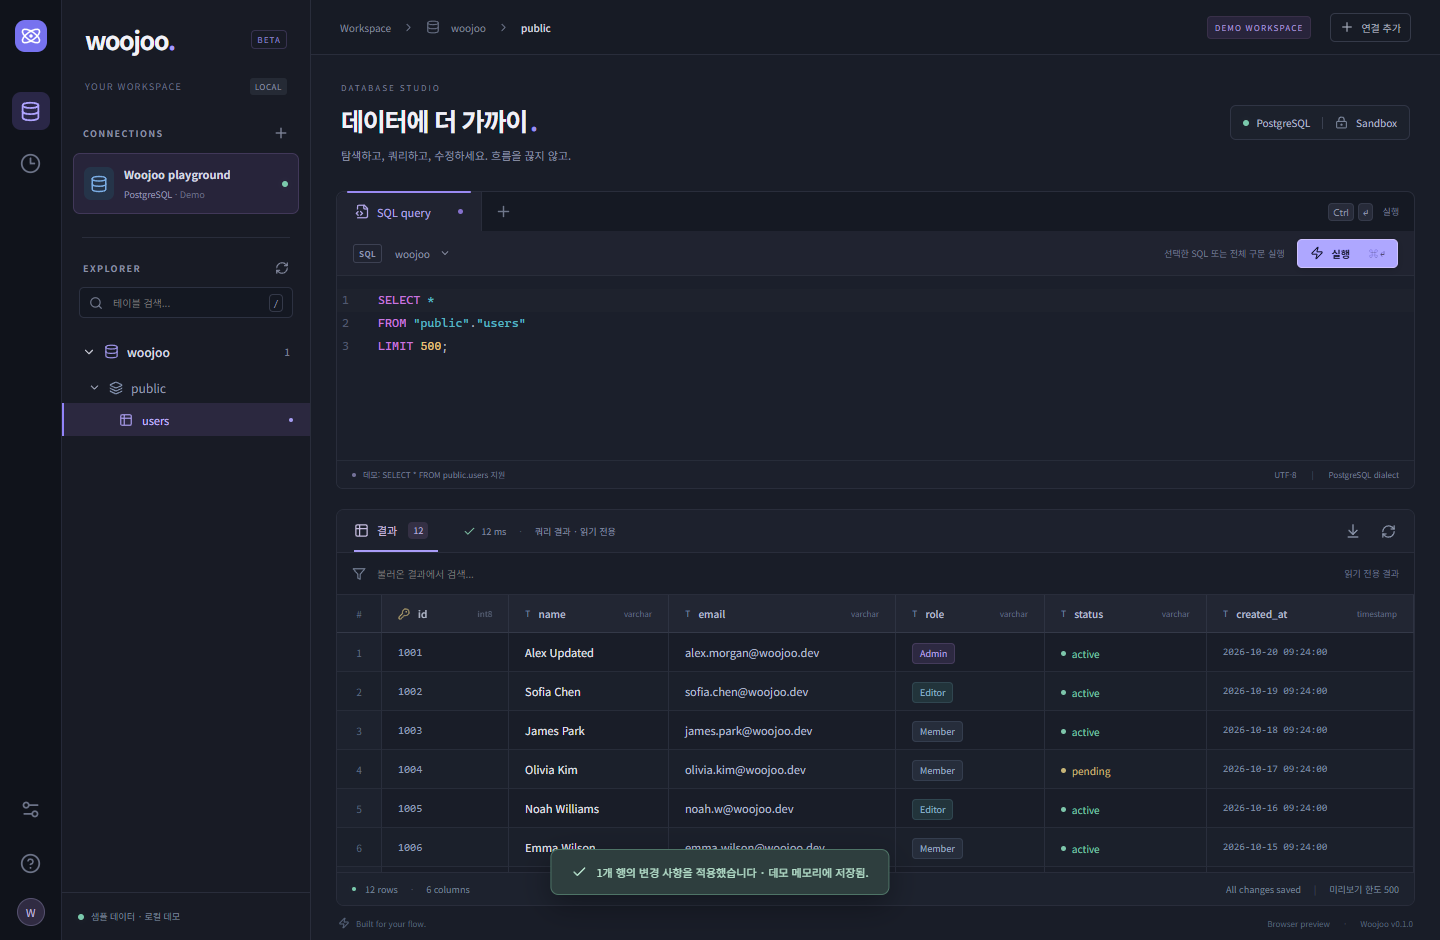
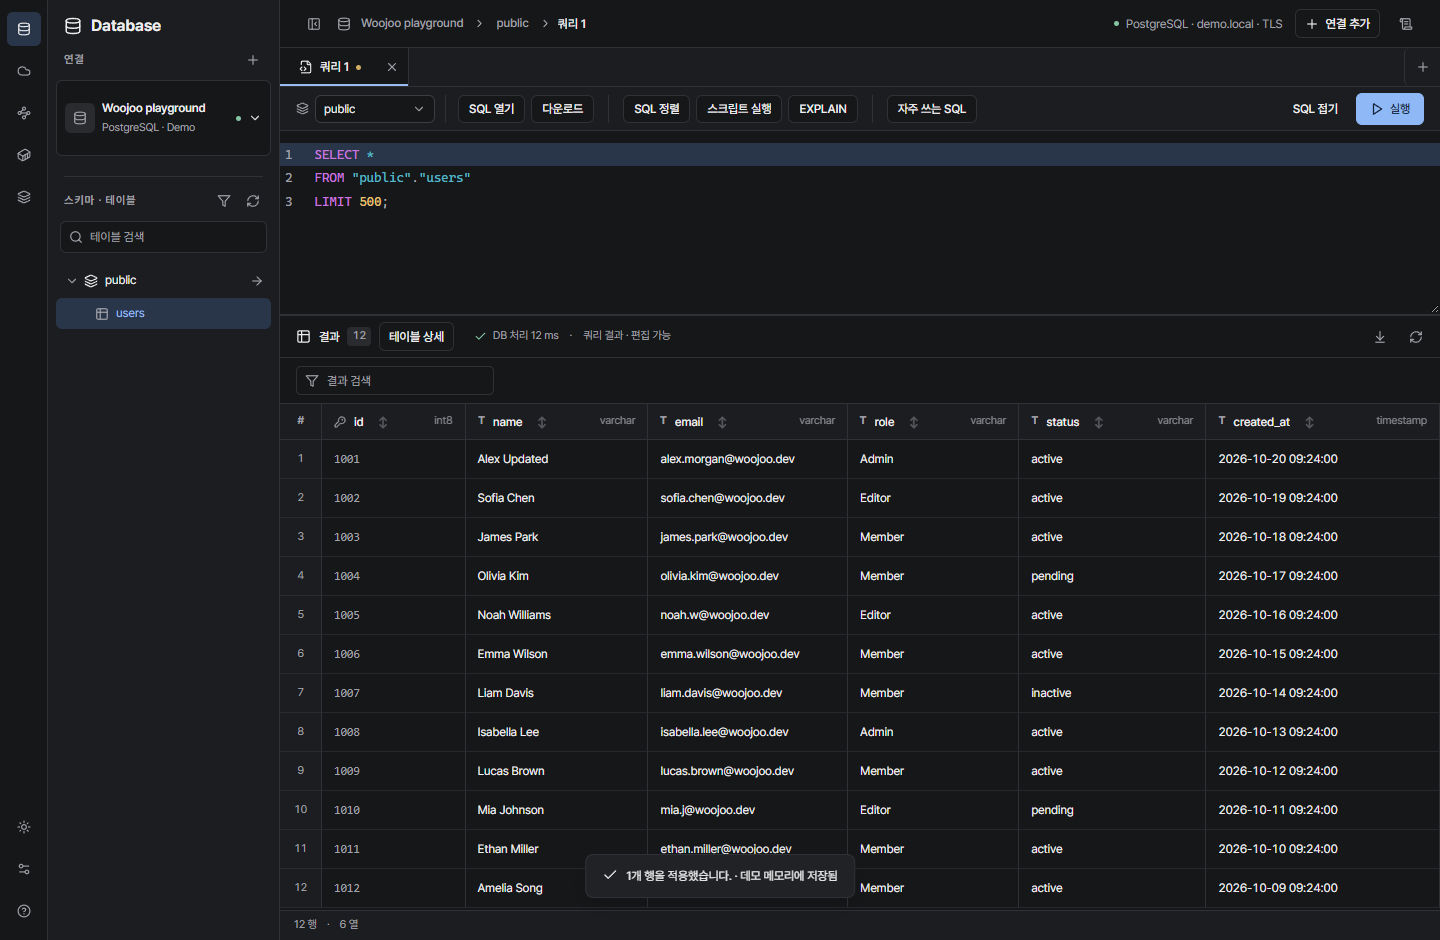
docs: preserve Redis verification evidence and refresh workspace preview

diff --git a/docs/superpowers/plans/2026-10-25-redis-verification.md b/docs/superpowers/plans/2026-10-25-redis-verification.md
@@ -1,0 +1,60 @@
+# Redis 구현 검증 결과
+
+2026-10-25. 승인한 독립 Redis 작업 공간 구현과 검증 결과를 기록한다.
+
+## 완료 범위
+
+- 앱 전환 메뉴의 독립 Redis 작업 공간과 지연 로딩.
+- 프로필·인증·검증 TLS·고정 DB 연결, Redis 전용 자격증명 namespace.
+- SCAN 탐색, 원본 바이너리 키 식별, 접두사 트리, 자료형 6종 값 조회 및 제한된 페이지.
+- 캐시 패턴/TTL 구간, List/Stream 큐 등록과 비소비 조회, 즐겨찾기와 보기 편집/삭제.
+- 한국어/영어, 다크/라이트, 작은 창의 목록/상세 전환, 명시적 데모 진입/종료.
+- 취소·연결 전환·늦은 응답 격리, 대용량 수신/IPC 제한, Cluster 감지와 권한 제한 시 범위 안내.
+
+## 최종 실행 결과
+
+| 검사 | 결과 |
+| --- | --- |
+| `npm test` | 19 파일, 112개 통과 |
+| `cargo test --manifest-path src-tauri/Cargo.toml` | 95개 통과, 실패 0, 기존 외부 환경 의존 검사 6개 제외 |
+| Redis Playwright 두 파일 | 9개 통과, 프로덕션 프리뷰에서 실행 |
+| 기존 production-ui / remember-password 검사 | 6개 통과, DB 사이드바 정렬 검사 1개 실패 |
+| `npm run tauri -- build --no-bundle` | Windows release EXE 빌드 성공 |
+| `node scripts/redis-release-smoke.mjs` | 실제 패키지의 화면·Tauri IPC·네이티브 TCP 연결/탐색/조회/해제 통과 |
+| `node scripts/redis-live-smoke.mjs` | Docker Redis 7.2.16 + 실제 Windows 패키지 UI 검증 12항목 통과 |
+| 프론트/네이티브 독립 코드 검토 | 발견된 세션 누수, 선택 경쟁, 데모 혼동, Cluster 범위, 페이지 예산 문제 수정 후 재검토 승인 |
+
+EXE: `src-tauri/target/release/woojoo-db.exe`.
+
+패키지 smoke는 임시 WebView 프로필과 별도 로컬 프로토콜 서버를 사용했다. 영구 Redis 프로필을 생성하지 않았고, 테스트가 생성한 앱 프로세스와 TCP 서버를 종료했다. 사용자 Redis 서버나 Docker 데몬은 변경하지 않았다.
+
+기존 DB 사이드바 검사 `sidebar header is compact and its add action aligns with its label`은 `.section-label`의 상단 간격으로 8px 이하를 기대하지만 현재 공통 제목 아래에서 40px를 관측한다. Redis 화면이 로딩되지 않은 DB 시작 화면에서 발생한다. 이번 작업에서 공통 SidebarTitle와 해당 테스트의 기준은 변경하지 않았다.
+
+## 실제 Redis 검증 추가 (2026-10-25)
+
+사용자 요청으로 Docker Desktop을 시작했다. 오래된 Secrets Engine 소켓으로 최초 시작이 실패했으나 공식 `docker desktop restart`로 복구했다. Docker Engine 29.9.2에서 `redis:7.2-alpine` (실제 버전 7.2.16)을 localhost 임의 포트에 게시했다. 이미지 digest: `sha256:f8548b29a1f1cb358b5fcfec1e0126beab57ad15776c1e87623f865579f16c5a`.
+
+- 실제 release EXE의 연결 폼에서 연결 테스트, 비밀번호 AUTH, DB 3 선택 및 연결 해제 성공.
+- String, Hash, List, Set, Sorted Set, Stream의 실제 서버 값을 화면에서 확인.
+- 캐시 TTL 1–5분 구간에서 해당 키만 표시하고 영구 키 및 더 긴 TTL의 키가 제외됨을 확인.
+- List/Stream 큐를 화면에서 등록하고 List 값, Stream 그룹·소비자·Pending ID를 확인.
+- 조회 전후 LRANGE, XRANGE, XPENDING 요약, XINFO GROUPS가 동일함을 확인. 테스트 fixture 준비 단계에서만 XREADGROUP으로 Pending 1건을 생성했으며 앱 조회는 소비하지 않았다.
+- 테스트 컨테이너, 앱 프로세스, 저장한 테스트 프로필과 보기를 정리했다. Docker는 실행 상태로 유지했다.
+
+재현: `node scripts/redis-live-smoke.mjs` (Docker 실행 및 release EXE 필요). 결과 JSON: `artifacts/redis-live-results.json`. 화면: `artifacts/redis-live-keys.png`, `redis-live-cache.png`, `redis-live-list.png`, `redis-live-stream.png`.
+
+## 검증하지 않은 항목
+
+실제 Redis의 TLS 성공·세부 ACL 구성·10만 키 성능은 이번 실서버 검사 범위에 포함하지 않았다. 기능은 조회 전용 Standalone 대상이며 Cluster/Sentinel/BullMQ 운영/쓰기 기능은 후속 범위다.
+
+Vite는 기존 메인 번들의 500kB 초과 경고를 출력했으며 빌드 자체는 성공했다.
+
+## 커밋 전 회귀 검증 (2026-10-25)
+
+- `npm test`: 19개 파일, 112개 테스트 통과.
+- `npm run test:rust`: 95개 통과, 외부 환경 의존 테스트 6개 제외.
+- `npm run build`: 성공. 번들 크기 경고는 유지된다.
+- 전체 Playwright: 최초 150개 중 145개 통과. API 도움말 접근성 이름, 새 사이드바 제목 아래 간격, Docker/Redis 추가 후 작업 영역 개수에 맞춰 오래된 테스트 3개를 수정했다.
+- 나머지 2개 실패는 실행 도중 메뉴 요소가 사라진 시간 초과였다. 실패한 5개 파일 전체를 다시 실행한 결과 21개 모두 통과했다. 첫 실행 중 패키지 버전을 수정해 개발 서버가 갱신되었을 가능성이 있다.
+- 패키지 버전은 Rust/Tauri와 동일한 0.1.4로 유지한다. 이 회귀 검증에서는 위에 기록한 실제 Redis/release EXE 검사를 다시 실행하지 않았다.
+- 스크린샷과 실서버 검증 JSON은 보존하고 `artifacts/*-test-results/`의 자동 생성 로그는 Git에서 제외한다.
